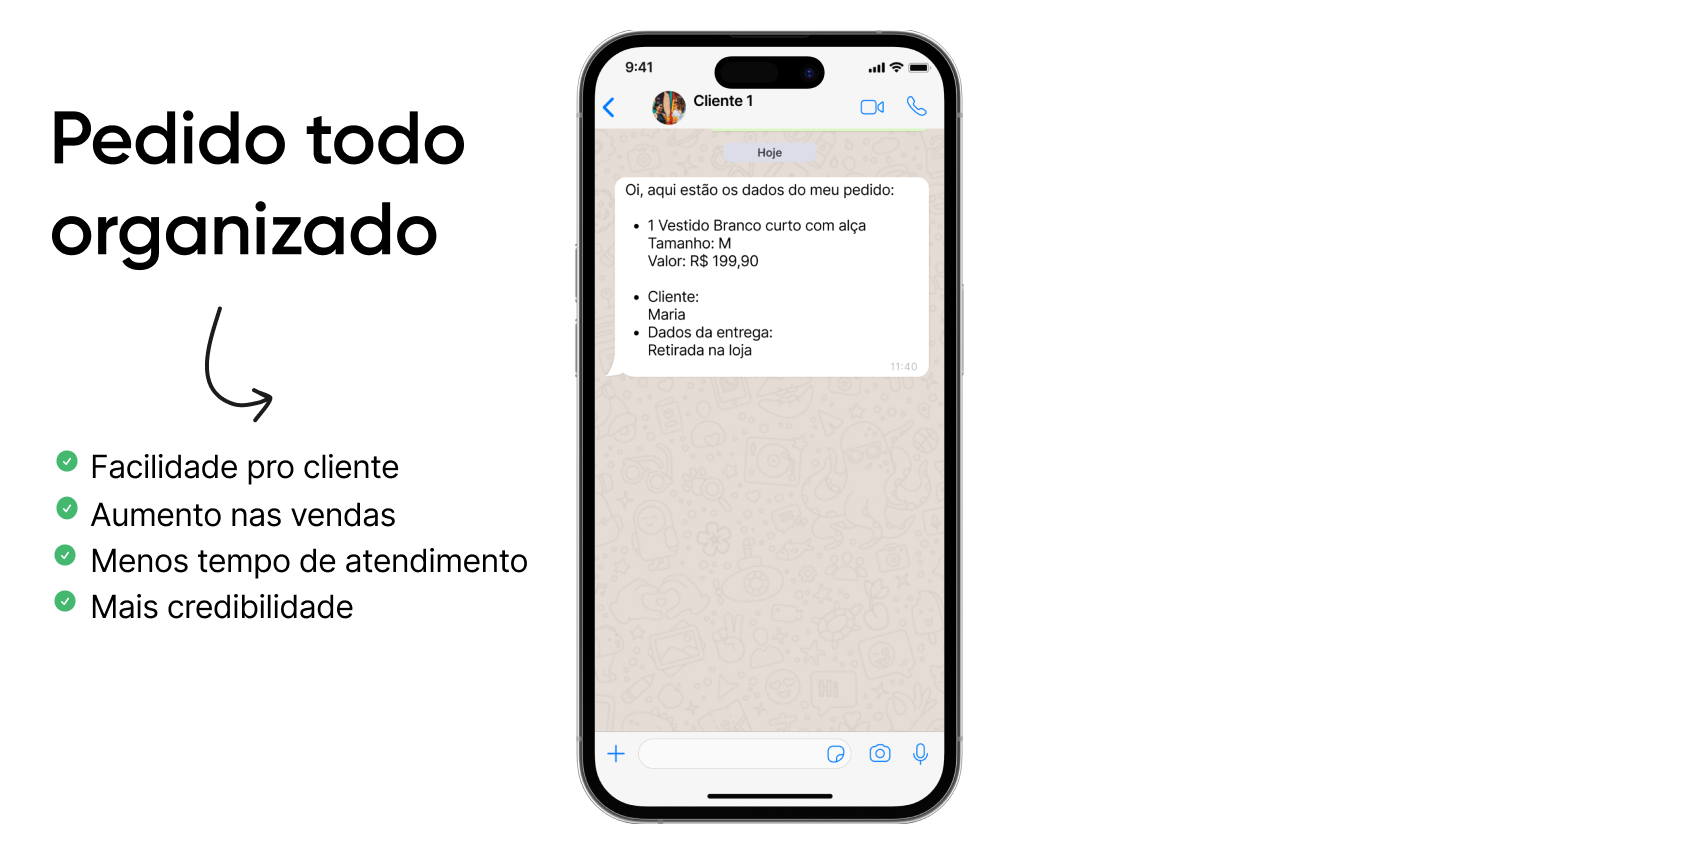
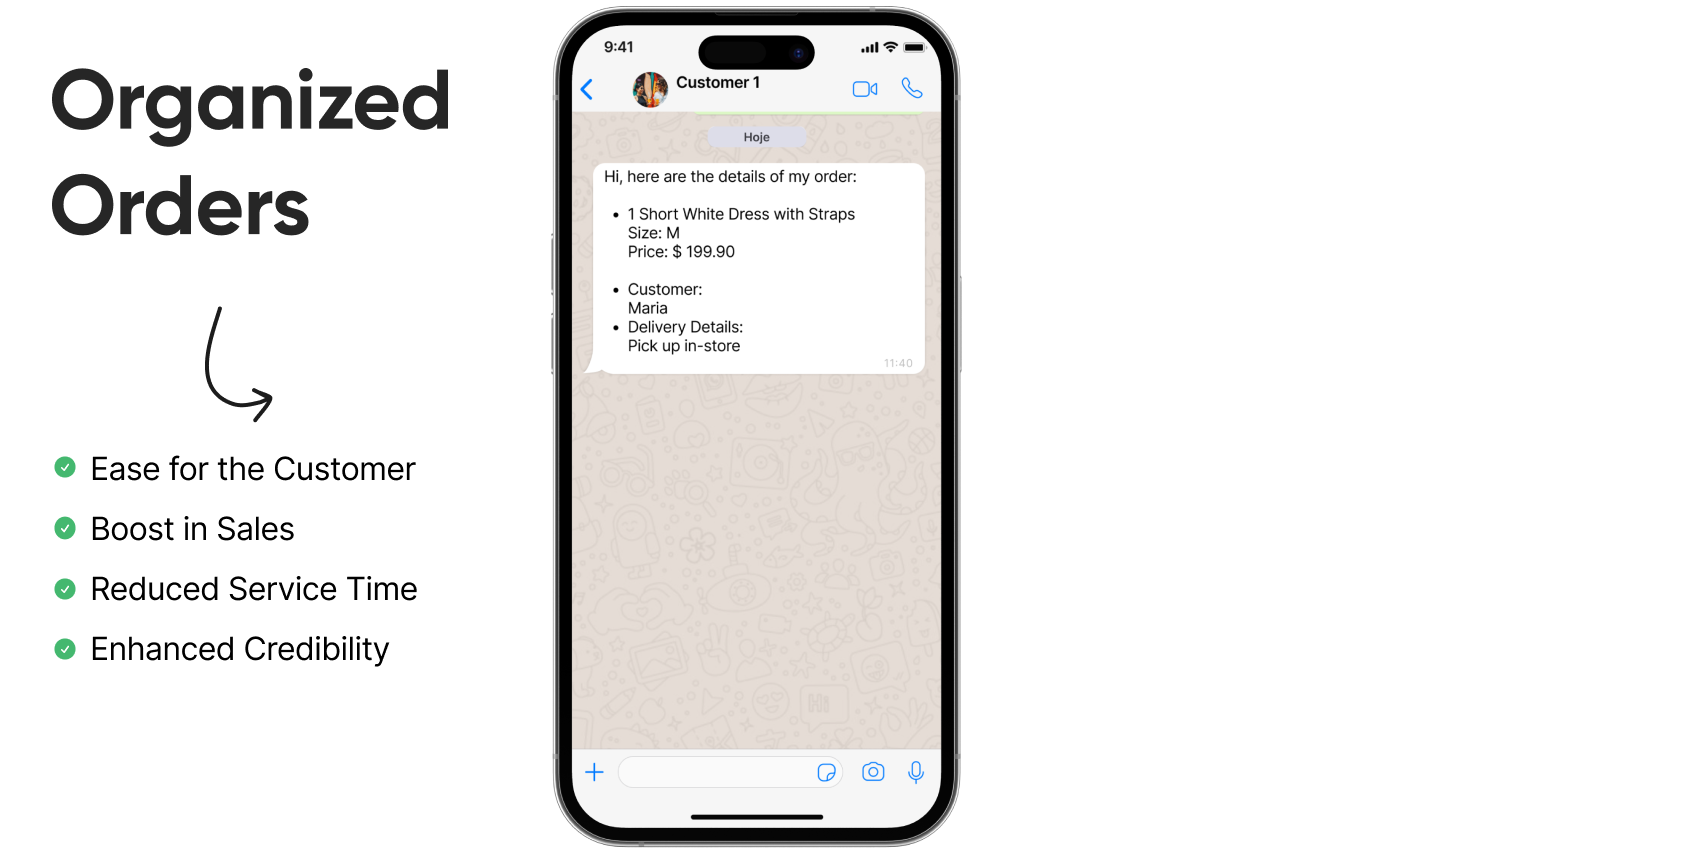
chore: more translations

Changed region(s): [[0.0308, 0.0, 0.5853, 1.0], [0.0308, 0.0607, 0.2773, 0.3341]]

diff --git a/app/routes/_marketing+/_index/components/Pricing.tsx b/app/routes/_marketing+/_index/components/Pricing.tsx
@@ -44,11 +44,10 @@ function Plan({
       )}
     >
       <div className="flex w-full flex-col items-center justify-center">
-        <p className="font-semibold">Apenas 12x de</p>
+        <p className="font-normal mb-2">Only</p>
         <p className="text-5xl font-bold tracking-tight text-orange-500">
           {price}
         </p>
-        <p className="text-sm">ou R$ 597 à vista no Pix</p>
       </div>
       <h3 className="mt-5 text-lg font-medium text-black">{name}</h3>
       <p
@@ -65,7 +64,7 @@ function Plan({
           <div className="flex w-full items-center justify-center gap-x-4 rounded-full bg-white p-4">
             <AlarmClockIcon className="h-5 w-5 text-orange-500" />
             <p className="text-center text-xs font-medium sm:text-sm">
-              Desconto exclusivo para as 100 primeiras compras.
+              Exclusive discount for the first 100 purchases.
             </p>
           </div>
         </div>
@@ -99,15 +98,15 @@ function Plan({
       <Button2
         href={href}
         color="orange"
-        className="mt-8"
-        aria-label={`Começar agora com o plano vitalício por R$ 597.`}
+        className="mt-8 text-xl"
+        aria-label={`Start`}
         rel="noopener noreferrer"
         target="_blank"
         onClick={() => {
           posthog.capture("clicked_buy_now");
         }}
       >
-        Começar agora
+        Start
       </Button2>
     </section>
   );
@@ -130,7 +129,7 @@ export function Pricing() {
           <Plan
             featured
             name="Lifetime Plan"
-            price="$12"
+            price="$149"
             description="No fees, commissions, or monthly charges."
             href="https://pay.kiwify.com.br/ybcO2sO"
             features={[

diff --git a/app/routes/_marketing+/_index/components/Hero.tsx b/app/routes/_marketing+/_index/components/Hero.tsx
@@ -1,6 +1,4 @@
-import { ClientOnly } from "remix-utils/client-only";
 import { Container } from "./Container";
-import { DrawerDialogWatchVideo } from "./DrawerDialogWatchVideo";
 
 export function Hero() {
   return (
@@ -12,10 +10,6 @@ export function Hero() {
         Get orders fast on WhatsApp: Show your catalog, connect with customers,
         and sell with a tap.
       </p>
-
-      <div className="mt-10 flex justify-center gap-x-6">
-        <ClientOnly>{() => <DrawerDialogWatchVideo />}</ClientOnly>
-      </div>
     </Container>
   );
 }
